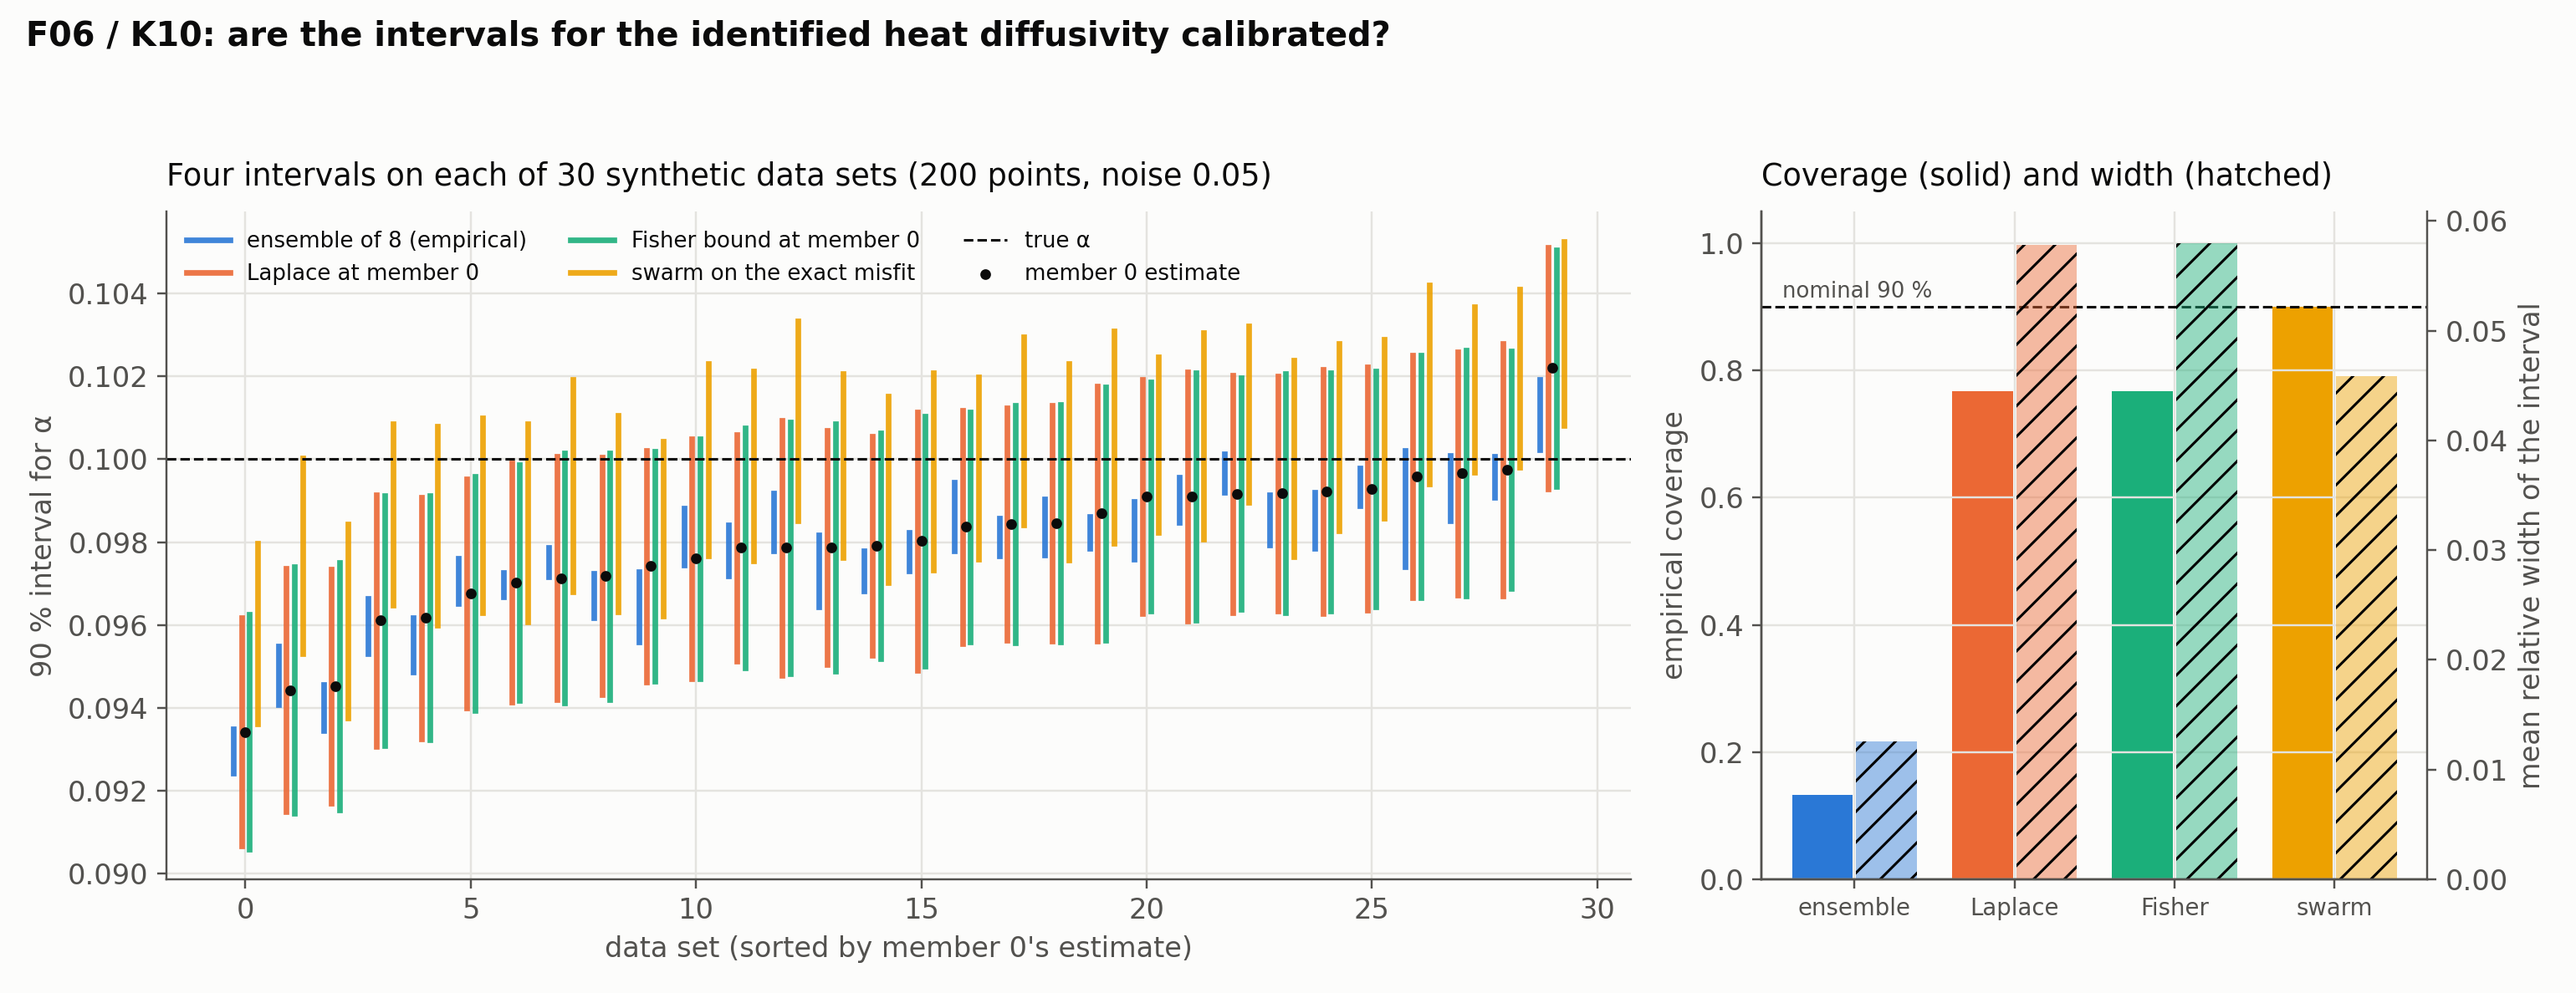
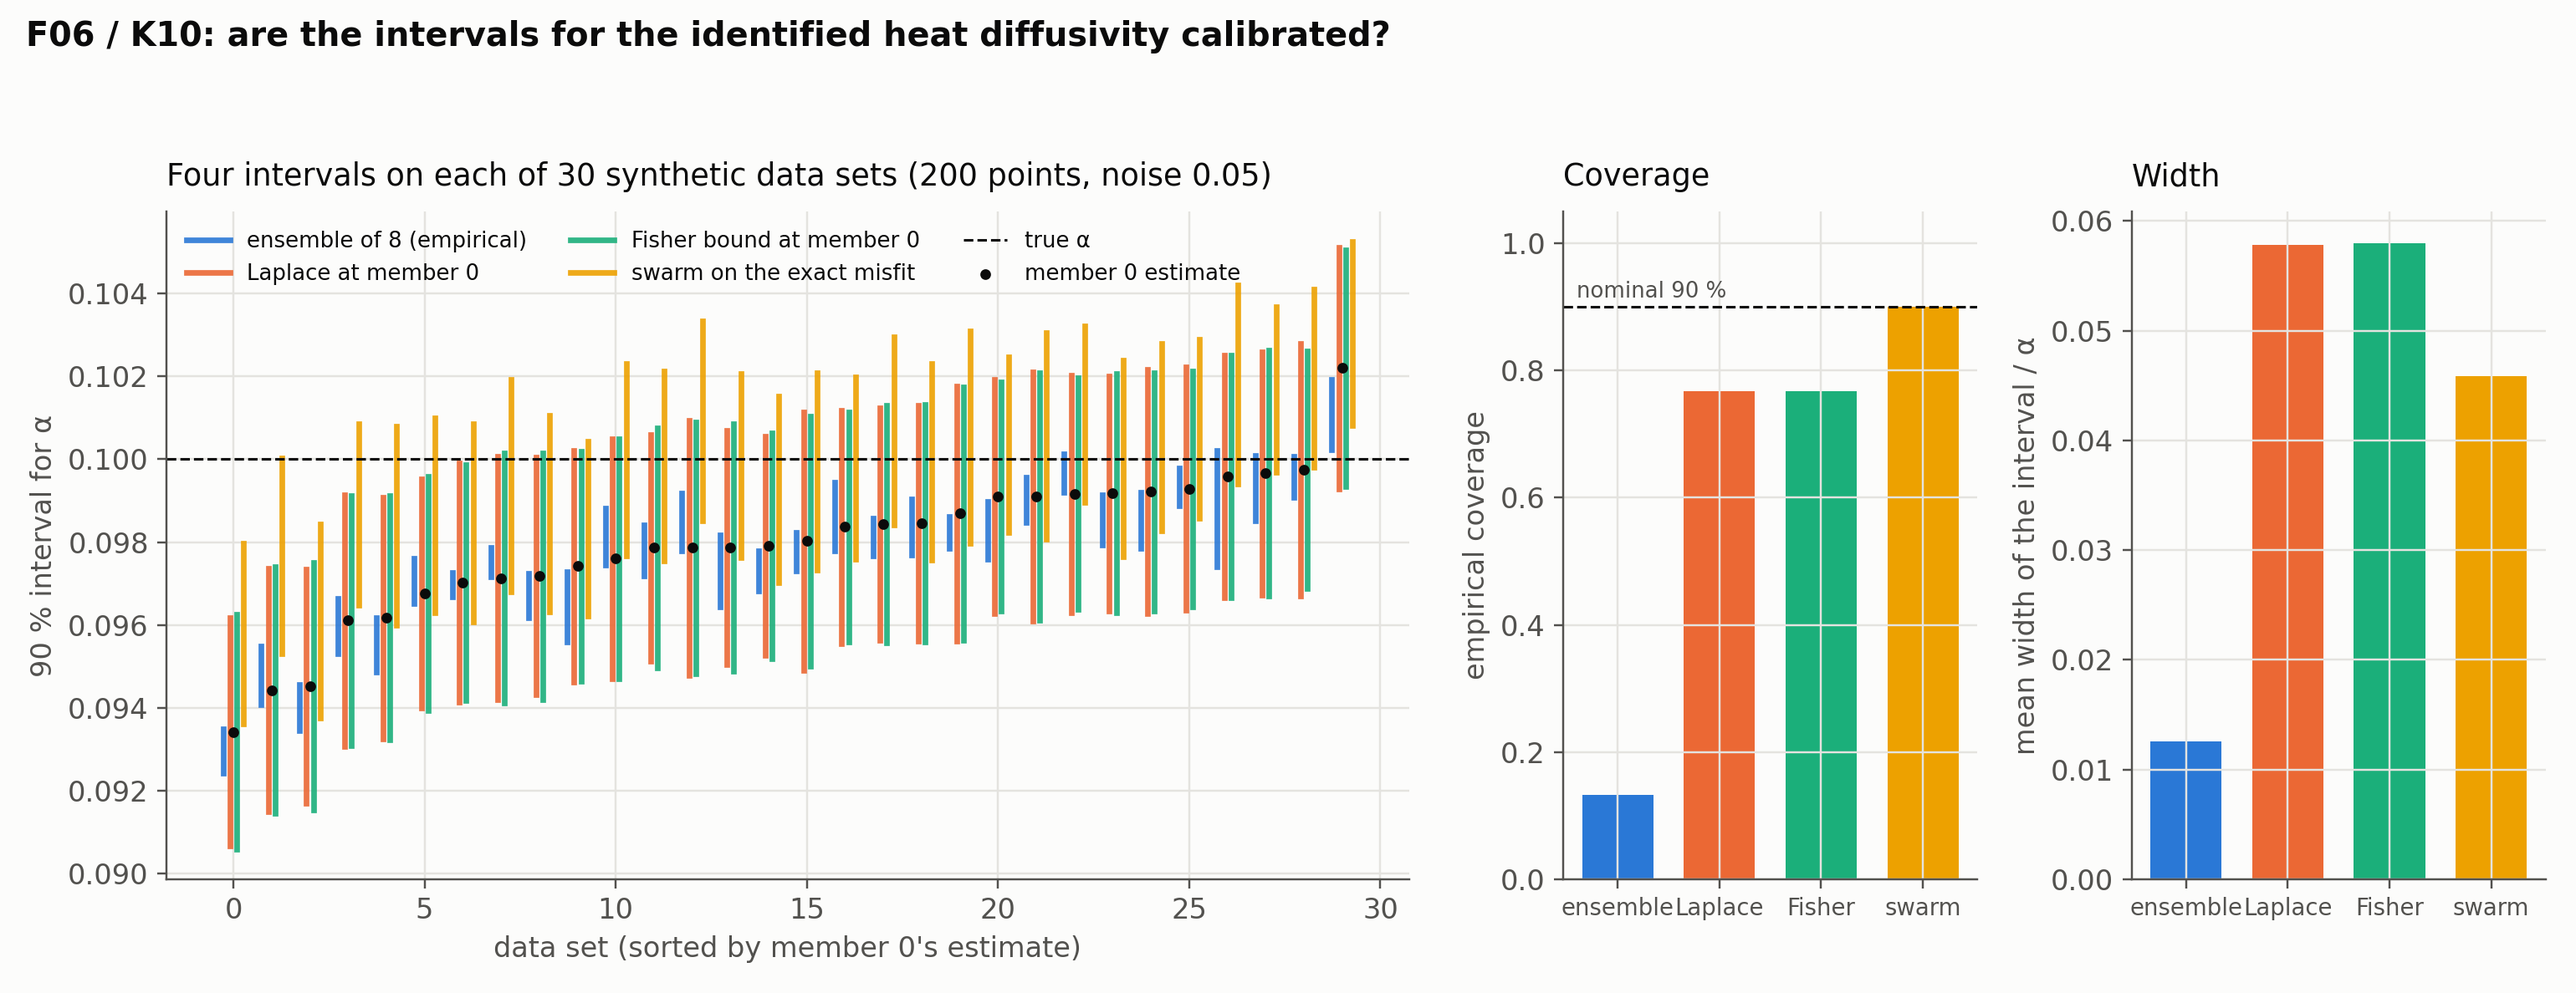
exp(F06): coverage and width as two panels
Claude-Session: https://claude.ai/code/session_013iiDLUHfnB2UEgGPY4Xgda

diff --git a/experiments/F06_coverage/plot.py b/experiments/F06_coverage/plot.py
@@ -34,15 +34,14 @@ plt.rcParams.update(
         "text.color": INK,
     }
 )
-fig, axes = plt.subplots(
-    1, 2, figsize=(14, 5.4), dpi=220, facecolor=SURFACE, gridspec_kw={"width_ratios": [2.2, 1]}
-)
-for ax in axes:
+fig = plt.figure(figsize=(14, 5.4), dpi=220, facecolor=SURFACE)
+gs = fig.add_gridspec(1, 3, width_ratios=[2.4, 0.8, 0.8])
+ax_iv, ax_cov, ax_w = (fig.add_subplot(gs[0, i]) for i in range(3))
+for ax in (ax_iv, ax_cov, ax_w):
     ax.set_facecolor(SURFACE)
     ax.grid(True, color=GRID, linewidth=0.8)
     for side in ("top", "right"):
         ax.spines[side].set_visible(False)
-ax_iv, ax_bar = axes
 n = len(rows)
 order = np.argsort([float(r["alpha_member0"]) for r in rows])
 for k, (key, label, color) in enumerate(METHODS):
@@ -78,29 +77,20 @@ ax_iv.set_title(
 ax_iv.legend(frameon=False, fontsize=8.5, ncol=3, loc="upper left")
 
 keys = [m[0] for m in METHODS]
-cov = [summary[k]["coverage"] for k in keys]
-width = [summary[k]["mean_width"] / 0.1 for k in keys]
+colors = [m[2] for m in METHODS]
+names = ["ensemble", "Laplace", "Fisher", "swarm"]
 x = np.arange(len(keys))
-ax_bar.bar(x - 0.2, cov, 0.38, color=[m[2] for m in METHODS], label="coverage of the truth")
-ax_bar.axhline(0.9, color=INK, linewidth=1, linestyle="--")
-ax_bar.text(-0.45, 0.915, "nominal 90 %", fontsize=8.5, color=INK2)
-ax2 = ax_bar.twinx()
-ax2.bar(
-    x + 0.2,
-    width,
-    0.38,
-    color=[m[2] for m in METHODS],
-    alpha=0.45,
-    hatch="//",
-    label="mean width / α",
-)
-ax2.set_ylabel("mean relative width of the interval")
-ax_bar.set_xticks(x, ["ensemble", "Laplace", "Fisher", "swarm"], fontsize=9)
-ax_bar.set_ylim(0, 1.05)
-ax_bar.set_ylabel("empirical coverage")
-ax_bar.set_title("Coverage (solid) and width (hatched)", loc="left", fontsize=12, pad=10)
-for side in ("top",):
-    ax2.spines[side].set_visible(False)
+ax_cov.bar(x, [summary[k]["coverage"] for k in keys], 0.7, color=colors)
+ax_cov.axhline(0.9, color=INK, linewidth=1, linestyle="--")
+ax_cov.text(-0.4, 0.915, "nominal 90 %", fontsize=8.5, color=INK2)
+ax_cov.set_xticks(x, names, fontsize=9)
+ax_cov.set_ylim(0, 1.05)
+ax_cov.set_ylabel("empirical coverage")
+ax_cov.set_title("Coverage", loc="left", fontsize=12, pad=10)
+ax_w.bar(x, [summary[k]["mean_width"] / 0.1 for k in keys], 0.7, color=colors)
+ax_w.set_xticks(x, names, fontsize=9)
+ax_w.set_ylabel("mean width of the interval / α")
+ax_w.set_title("Width", loc="left", fontsize=12, pad=10)
 fig.suptitle(
     "F06 / K10: are the intervals for the identified heat diffusivity calibrated?",
     x=0.01,
